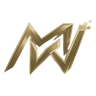
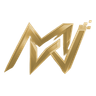
feat(marca): troca pro Preto + Champagne dourado
4ª paleta da noite (vermelho, laranja e oliva vetados ao vivo): luxo
sóbrio de relojoaria — preto quente #0E0D0B, marfim #F2EDE2, champagne
#C9A45C nas ações (texto escuro em cima: dourado é claro, branco nem
chega perto de AA) e a própria família champagne no --warm. Claro =
papel marfim com ouro velho #6E5722 (champagne puro some no claro).
Lula dourada, sol champagne, logo na rampa dourada.

Claude-Session: https://claude.ai/code/session_01QSbcpXVHiqCgySsJyp7fqZ

Changed region(s): [[0.0312, 0.25, 0.875, 0.7812], [0.9062, 0.2812, 0.9375, 0.3125]]

diff --git a/src/app/globals.css b/src/app/globals.css
@@ -61,53 +61,53 @@
   /* ===== TEMA (variáveis semânticas) — MilWeb =====
      Default = DARK (:root). A classe .light no <html> troca pro claro.
 
-     Paleta PRETO OLIVA + AREIA + BRONZE (decisão do Rick, 12/08 — 3ª da
-     noite: vermelho e laranja vetados ao vivo): saímos de vez do preto +
-     azul elétrico + glow — a linguagem que grita "AI startup / SaaS
-     genérico". A mais autoral/design studio das opções dele: verde-preto,
-     areia e DOIS acentos irmãos — oliva nas ações, bronze nos detalhes
-     (--warm). Nada de gradiente, glow ou borda colorida ambiente.
+     Paleta PRETO + CHAMPAGNE DOURADO (decisão do Rick, 12/08 — 4ª da
+     noite: vermelho, laranja e oliva vetados ao vivo): saímos de vez do
+     preto + azul elétrico + glow — a linguagem que grita "AI startup /
+     SaaS genérico". Luxo sóbrio de relojoaria/alto padrão: preto quente,
+     marfim e o dourado champagne como assinatura discreta em ações e
+     indicadores. Nada de gradiente, glow ou borda colorida ambiente.
 
-     --warm existia como contraponto quente do azul; agora é o BRONZE
-     (eyebrows, números, destaques) — mais claro que a oliva, segura texto
-     pequeno no escuro sem esforço. */
+     --warm existia como contraponto quente do azul; agora é a própria
+     família do champagne (eyebrows, números, destaques) — um metal só,
+     de propósito. */
   :root {
-    --bg: 17 18 15;             /* #11120F — preto oliva */
-    --surface: 28 33 27;        /* #1C211B */
-    --surface-2: 37 42 35;      /* #252A23 */
-    --fg: 237 232 220;          /* #EDE8DC — areia */
-    --fg-muted: 169 165 150;    /* #A9A596 */
-    --fg-subtle: 141 138 125;   /* #8D8A7D — 4.8:1 no preto oliva (AA) */
-    --line: 44 48 40;           /* #2C3028 — borda neutra, quase invisível */
-    --accent: 120 129 91;       /* #78815B — oliva */
-    --accent-soft: 139 148 105; /* #8B9469 — hover */
-    --accent-deep: 95 103 74;   /* #5F674A */
-    --accent-fg: 20 22 12;      /* texto ESCURO sobre a oliva — 5:1
-                                   (branco dava ~4.2:1, reprova AA) */
-    --warm: 184 160 106;        /* #B8A06A — bronze (texto pequeno ok) */
-    --warm-loud: 200 178 126;   /* #C8B27E — texto grande */
-    --warm-fg: 26 22 10;
+    --bg: 14 13 11;             /* #0E0D0B — preto quente */
+    --surface: 24 22 19;        /* #181613 */
+    --surface-2: 32 30 26;      /* #201E1A */
+    --fg: 242 237 226;          /* #F2EDE2 — marfim */
+    --fg-muted: 156 150 138;    /* #9C968A */
+    --fg-subtle: 138 132 120;   /* #8A8478 — 4.9:1 no preto quente (AA) */
+    --line: 43 40 34;           /* #2B2822 — borda neutra, quase invisível */
+    --accent: 201 164 92;       /* #C9A45C — champagne */
+    --accent-soft: 221 186 116; /* #DDBA74 — hover */
+    --accent-deep: 168 134 70;  /* #A88646 */
+    --accent-fg: 30 24 12;      /* texto ESCURO sobre o champagne — ~9:1
+                                   (dourado é claro; branco nem chega perto) */
+    --warm: 221 186 116;        /* champagne claro p/ texto pequeno no escuro */
+    --warm-loud: 232 202 140;   /* #E8CA8C — texto grande */
+    --warm-fg: 30 24 12;
     color-scheme: dark;
   }
   .light {
-    /* O claro não é branco de UI: é PAPEL areia, tinta verde-preta, oliva
-       e bronze escurecidos pra AA como assinatura. */
-    --bg: 237 232 220;          /* #EDE8DC — areia paper */
-    --surface: 245 241 232;     /* #F5F1E8 */
-    --surface-2: 226 220 205;   /* #E2DCCD */
-    --fg: 25 27 22;             /* #191B16 — tinta */
-    --fg-muted: 82 84 72;       /* #525448 */
-    --fg-subtle: 106 108 95;    /* #6A6C5F — 4.7:1 na areia (AA) */
-    --line: 203 197 181;        /* #CBC5B5 */
-    --accent: 86 96 68;         /* #566044 — 5.5:1 na areia (AA) */
-    --accent-soft: 70 78 55;    /* hover no claro escurece, não clareia */
-    --accent-deep: 58 65 45;
-    --accent-fg: 248 246 238;
+    /* O claro não é branco de UI: é PAPEL marfim, tinta preta-quente, o
+       dourado ESCURECIDO pra AA (champagne puro some no claro). */
+    --bg: 242 237 226;          /* #F2EDE2 — marfim paper */
+    --surface: 248 245 238;     /* #F8F5EE */
+    --surface-2: 231 225 211;   /* #E7E1D3 */
+    --fg: 26 24 20;             /* #1A1814 — tinta */
+    --fg-muted: 85 81 72;       /* #555148 */
+    --fg-subtle: 110 105 94;    /* #6E695E — 4.7:1 no marfim (AA) */
+    --line: 208 201 186;        /* #D0C9BA */
+    --accent: 110 87 34;        /* #6E5722 — ouro velho, 4.9:1 (AA) */
+    --accent-soft: 92 72 28;    /* hover no claro escurece, não clareia */
+    --accent-deep: 78 61 24;
+    --accent-fg: 250 247 240;
     /* DOIS tons no claro porque o mínimo de contraste depende do tamanho
        do texto: --warm serve o eyebrow (texto pequeno, precisa ~4.5:1) e
        --warm-loud os números gigantes do Stats (3:1 basta). */
-    --warm: 119 99 58;          /* #77633A — bronze escuro (texto pequeno) */
-    --warm-loud: 150 126 74;    /* #967E4A — 3:1 (só texto grande) */
+    --warm: 104 82 32;          /* #685220 — 5.2:1 (texto pequeno) */
+    --warm-loud: 140 112 48;    /* #8C7030 — 3.2:1 (só texto grande) */
     --warm-fg: 255 253 246;
     color-scheme: light;
   }

diff --git a/src/components/SquidFollower/constants.ts b/src/components/SquidFollower/constants.ts
@@ -85,19 +85,19 @@ export const PHYSICS = {
   bubbleEvery: 1.6,
 } as const;
 
-/** Paleta (RGB 0-255) — oliva profunda → bronze nas pontas, identidade
- *  MilWeb (preto-oliva+areia+bronze, 12/08). Atenção de manutenção:
+/** Paleta (RGB 0-255) — champagne profundo → dourado claro nas pontas,
+ *  identidade MilWeb (preto+champagne, 12/08). Atenção de manutenção:
  *  varreduras de cor por hex/`rgb(r g b)` NÃO acham este arquivo — a cor
  *  mora em array com vírgula (já passou batido em trocas anteriores). */
 export const PALETTE = {
-  headCore: [139, 148, 105],
-  headMid: [120, 129, 91],
-  headEdge: [24, 27, 18],
-  tentacleBase: [95, 103, 74],
-  tentacleTip: [184, 160, 106],
-  glow: [120, 129, 91],
-  eyeSclera: [237, 232, 220],
-  eyePupil: [17, 18, 15],
+  headCore: [221, 186, 116],
+  headMid: [201, 164, 92],
+  headEdge: [32, 26, 14],
+  tentacleBase: [168, 134, 70],
+  tentacleTip: [232, 202, 140],
+  glow: [201, 164, 92],
+  eyeSclera: [242, 237, 226],
+  eyePupil: [14, 13, 11],
 } as const;
 
 /**
@@ -146,14 +146,14 @@ export const STARFIELD = {
  */
 export const BODIES = {
   /** Direção da luz do sol, usada pra iluminar o lado certo dos planetas.
-   *  Cores na paleta preto-oliva+areia+bronze: sol BRONZE, planetas em
-   *  areia, bronze e warm gray — os azuis/lilases eram resquício da paleta
+   *  Cores na paleta preto+champagne: sol DOURADO, planetas em marfim,
+   *  champagne e warm gray — os azuis/lilases eram resquício da paleta
    *  velha e apareciam como manchas azuis soltas no fundo novo. */
-  sun: { nx: 0.82, ny: 0.14, r: 200, alpha: 0.3, parallax: 0.015, rgb: [184, 160, 106] },
+  sun: { nx: 0.82, ny: 0.14, r: 200, alpha: 0.3, parallax: 0.015, rgb: [221, 186, 116] },
   planets: [
-    { nx: 0.16, ny: 0.52, r: 88, alpha: 0.2, parallax: 0.05, rgb: [214, 206, 186], ring: 0 },
-    { nx: 0.68, ny: 0.78, r: 58, alpha: 0.18, parallax: 0.08, rgb: [184, 160, 106], ring: 1.9 },
-    { nx: 0.40, ny: 0.28, r: 40, alpha: 0.15, parallax: 0.11, rgb: [169, 165, 150], ring: 0 },
+    { nx: 0.16, ny: 0.52, r: 88, alpha: 0.2, parallax: 0.05, rgb: [220, 212, 194], ring: 0 },
+    { nx: 0.68, ny: 0.78, r: 58, alpha: 0.18, parallax: 0.08, rgb: [201, 164, 92], ring: 1.9 },
+    { nx: 0.40, ny: 0.28, r: 40, alpha: 0.15, parallax: 0.11, rgb: [156, 150, 138], ring: 0 },
   ],
 } as const;
 

diff --git a/src/app/[lang]/opengraph-image.tsx b/src/app/[lang]/opengraph-image.tsx
@@ -24,7 +24,7 @@ export default async function Image() {
           display: 'flex',
           flexDirection: 'column',
           justifyContent: 'center',
-          backgroundColor: '#11120f',
+          backgroundColor: '#0E0D0B',
           backgroundImage:
             'none',
           padding: '80px 96px',
@@ -47,8 +47,8 @@ export default async function Image() {
               width: '64px',
               height: '64px',
               borderRadius: '18px',
-              backgroundColor: '#78815B',
-              color: '#14160C',
+              backgroundColor: '#C9A45C',
+              color: '#1E180C',
               fontSize: '40px',
               fontWeight: 800,
             }}
@@ -61,11 +61,11 @@ export default async function Image() {
               fontSize: '60px',
               fontWeight: 800,
               letterSpacing: '-0.02em',
-              color: '#EDE8DC',
+              color: '#F2EDE2',
             }}
           >
             Mil
-            <span style={{ color: '#78815B' }}>Web</span>
+            <span style={{ color: '#C9A45C' }}>Web</span>
           </div>
         </div>
 
@@ -78,7 +78,7 @@ export default async function Image() {
             lineHeight: 1.08,
             fontWeight: 800,
             letterSpacing: '-0.025em',
-            color: '#EDE8DC',
+            color: '#F2EDE2',
             maxWidth: '1000px',
           }}
         >
@@ -91,7 +91,7 @@ export default async function Image() {
             display: 'flex',
             marginTop: '32px',
             fontSize: '30px',
-            color: '#A9A596',
+            color: '#9C968A',
           }}
         >
           Sites, sistemas e SaaS sob medida
@@ -104,7 +104,7 @@ export default async function Image() {
             marginTop: '20px',
             fontSize: '26px',
             fontWeight: 600,
-            color: '#B8A06A',
+            color: '#DDBA74',
           }}
         >
           Next.js · React · TypeScript · SaaS · Landing Pages

diff --git a/src/app/[lang]/projetos/[slug]/opengraph-image.tsx b/src/app/[lang]/projetos/[slug]/opengraph-image.tsx
@@ -32,7 +32,7 @@ export default async function Image({
           display: 'flex',
           flexDirection: 'column',
           justifyContent: 'space-between',
-          backgroundColor: '#11120f',
+          backgroundColor: '#0E0D0B',
           backgroundImage:
             'none',
           padding: '72px 88px',
@@ -49,15 +49,15 @@ export default async function Image({
               width: '52px',
               height: '52px',
               borderRadius: '14px',
-              backgroundColor: '#78815B',
-              color: '#14160C',
+              backgroundColor: '#C9A45C',
+              color: '#1E180C',
               fontSize: '32px',
               fontWeight: 800,
             }}
           >
             M
           </div>
-          <div style={{ display: 'flex', fontSize: '34px', fontWeight: 800, color: '#EDE8DC' }}>
+          <div style={{ display: 'flex', fontSize: '34px', fontWeight: 800, color: '#F2EDE2' }}>
             MilWeb
           </div>
         </div>
@@ -71,7 +71,7 @@ export default async function Image({
               lineHeight: 1.02,
               fontWeight: 800,
               letterSpacing: '-0.03em',
-              color: '#EDE8DC',
+              color: '#F2EDE2',
               maxWidth: '1000px',
             }}
           >
@@ -82,7 +82,7 @@ export default async function Image({
               display: 'flex',
               marginTop: '24px',
               fontSize: '32px',
-              color: '#B8A06A',
+              color: '#DDBA74',
               maxWidth: '980px',
             }}
           >
@@ -91,7 +91,7 @@ export default async function Image({
         </div>
 
         {/* Footer line */}
-        <div style={{ display: 'flex', fontSize: '24px', fontWeight: 600, color: '#A9A596' }}>
+        <div style={{ display: 'flex', fontSize: '24px', fontWeight: 600, color: '#9C968A' }}>
           Case · MilWeb
         </div>
       </div>

diff --git a/src/components/dependency-calc.tsx b/src/components/dependency-calc.tsx
@@ -146,34 +146,34 @@ function drawShareCard(s: CalcStrings, loss: string, durationLabel: string, shar
 
   // fundo preto-quente sólido (os glows radiais azul/rosa saíram com a paleta
   // nova: a imagem de share segue a mesma linguagem editorial do site)
-  ctx.fillStyle = "#11120f";
+  ctx.fillStyle = "#0e0d0b";
   ctx.fillRect(0, 0, size, size);
 
   ctx.textAlign = "center";
 
   // eyebrow
-  ctx.fillStyle = "#b8a06a";
+  ctx.fillStyle = "#c9a45c";
   ctx.font = `700 30px ${sans}`;
   ctx.fillText("MILWEB · RAIO-X", size / 2, 190);
 
   // título
-  ctx.fillStyle = "#ede8dc";
+  ctx.fillStyle = "#f2ede2";
   ctx.font = `700 58px ${sans}`;
   ctx.fillText(s.shareTitle1, size / 2, 330);
   ctx.fillText(s.shareTitle2, size / 2, 405);
 
   // valor
-  ctx.fillStyle = "#c8b27e";
+  ctx.fillStyle = "#e8ca8c";
   ctx.font = `800 132px ${sans}`;
   ctx.fillText(loss, size / 2, 580);
 
   // sub
-  ctx.fillStyle = "#a9a596";
+  ctx.fillStyle = "#9c968a";
   ctx.font = `400 36px ${sans}`;
   ctx.fillText(fill(s.shareSub, { duration: durationLabel, share }), size / 2, 665);
 
   // divisor
-  ctx.strokeStyle = "rgba(237,232,220,0.22)";
+  ctx.strokeStyle = "rgba(242,237,226,0.22)";
   ctx.lineWidth = 2;
   ctx.beginPath();
   ctx.moveTo(size / 2 - 180, 760);
@@ -181,7 +181,7 @@ function drawShareCard(s: CalcStrings, loss: string, durationLabel: string, shar
   ctx.stroke();
 
   // rodapé
-  ctx.fillStyle = "#b8a06a";
+  ctx.fillStyle = "#c9a45c";
   ctx.font = `700 40px ${sans}`;
   ctx.fillText(s.shareFooter, size / 2, 850);
 

diff --git a/src/components/konami.tsx b/src/components/konami.tsx
@@ -10,7 +10,7 @@ const CODE = [
 
 // Confete na família da paleta graphite+bone (vermelhos, bone e bronze) —
 // o easter egg continua festivo sem reintroduzir o azul/roxo aposentado.
-const COLORS = ["#b8a06a", "#c8b27e", "#ede8dc", "#b8a06a", "#8b9469", "#a9a596"];
+const COLORS = ["#c9a45c", "#e8ca8c", "#f2ede2", "#c9a45c", "#ddba74", "#9c968a"];
 
 /** Explosão de confete em canvas — sem dependências, remove-se sozinha. */
 function burstConfetti() {
@@ -86,7 +86,7 @@ export function Konami() {
   useEffect(() => {
     console.info(
       "%c🤖 Milo diz: oi, dev! Curioso, hein?\n%c↑ ↑ ↓ ↓ ← → ← → B A — experimenta.\n%cFeito pela MilWeb → https://milweb.com.br",
-      "color:#b8a06a;font-size:14px;font-weight:bold",
+      "color:#c9a45c;font-size:14px;font-weight:bold",
       "color:#a8a29a",
       "color:#78716a",
     );

diff --git a/src/components/SquidFollower/renderer.ts b/src/components/SquidFollower/renderer.ts
@@ -21,7 +21,7 @@ export class Renderer {
   private w = 0;
   private h = 0;
   /** Cor e intensidade do céu, resolvidas do tema (ver refreshTheme). */
-  private starColor: readonly number[] = [237, 232, 220];
+  private starColor: readonly number[] = [242, 237, 226];
   private starAlpha: number = STARFIELD.alphaDark;
   /** Sol e planetas só existem no escuro (ver BODIES). */
   private dark = true;
@@ -73,7 +73,7 @@ export class Renderer {
     this.starColor =
       parsed.length === 3 && parsed.every((n) => Number.isFinite(n))
         ? parsed
-        : [237, 232, 220]; // token ausente/malformado: não apaga o céu
+        : [242, 237, 226]; // token ausente/malformado: não apaga o céu
     this.starAlpha = light ? STARFIELD.alphaLight : STARFIELD.alphaDark;
     this.dark = !light;
   }

diff --git a/src/components/milo.tsx b/src/components/milo.tsx
@@ -24,10 +24,10 @@ export type MiloPose = "idle" | "think" | "shocked" | "happy" | "sleepy";
  * Cor da plumagem (asas, pés, penas do peito, bico) — cravada de propósito,
  * NÃO vinda de --accent-soft: o hover do claro é mais ESCURO que o accent
  * (cai no meio do gradiente do corpo) e as asas sumiam contra o corpo.
- * Bone levemente tostado: contrasta com o corpo oliva nos dois
+ * Bone levemente tostado: contrasta com o corpo no acento da marca nos dois
  * temas (paleta graphite+bone — Milo trocou o azul junto com o site).
  */
-const PLUMA = "#e6e0d0";
+const PLUMA = "#ece5d2";
 
 /** Deslocamento do olhar, aplicado só nas pupilas. */
 const GAZE = { transform: "translate(var(--milo-lx, 0px), var(--milo-ly, 0px))" };

diff --git a/src/components/deliverables.tsx b/src/components/deliverables.tsx
@@ -32,7 +32,7 @@ const ICONS: Record<string, LucideIcon> = {
 /** Tratamento único e neutro pra TODOS os cards (era um arco-íris de
  * emerald/amber/violet/rose/cyan por índice no mobile — exatamente a
  * estética "SaaS genérico" que a paleta graphite+bone eliminou; na nova
- * linguagem a cor é assinatura da oliva, não diferenciador de card). */
+ * linguagem a cor é assinatura do champagne, não diferenciador de card). */
 const CARD_ACCENT = [
   { icon: "text-fg-muted", bg: "bg-surface-2", ring: "ring-line/40", border: "border-line/60" },
 ];

diff --git a/src/components/projects.tsx b/src/components/projects.tsx
@@ -31,7 +31,7 @@ export const FILTER_LABELS: Record<Project["category"], Localized> = {
  * no sistema/SaaS (o tipo de projeto que a MilWeb mais quer vender). Era
  * uma cor por categoria (amber/violet/sky/emerald) — arco-íris de card é a
  * estética que a paleta graphite+bone aposentou; o indicador pontual em
- * oliva é a nova linguagem. */
+ * champagne é a nova linguagem. */
 const CATEGORY_ACCENT: Record<Project["category"], string> = {
   "landing-essencial": "border-l-line",
   "landing-premium": "border-l-line",
